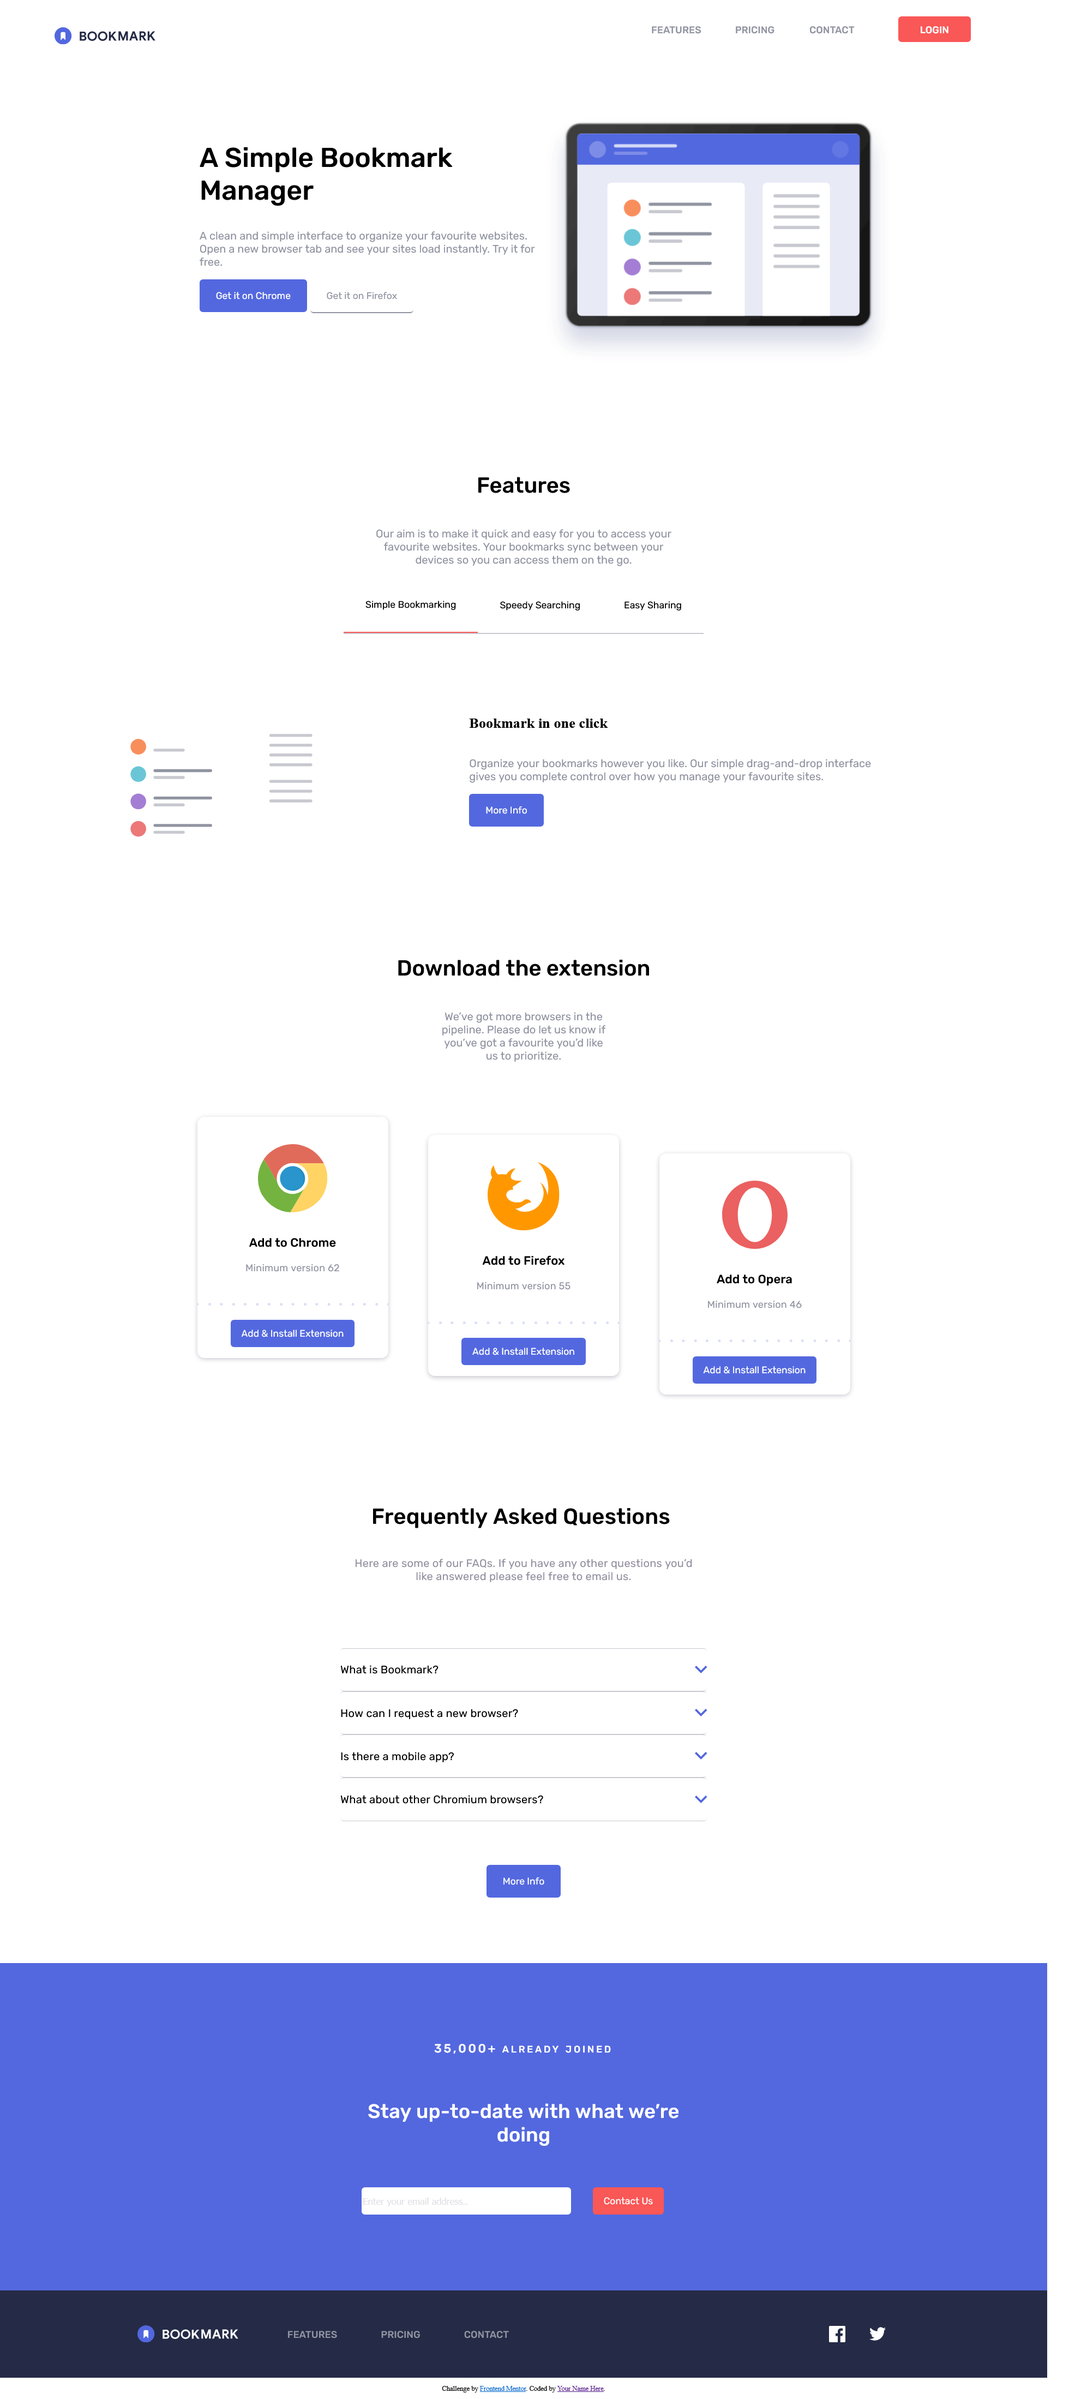
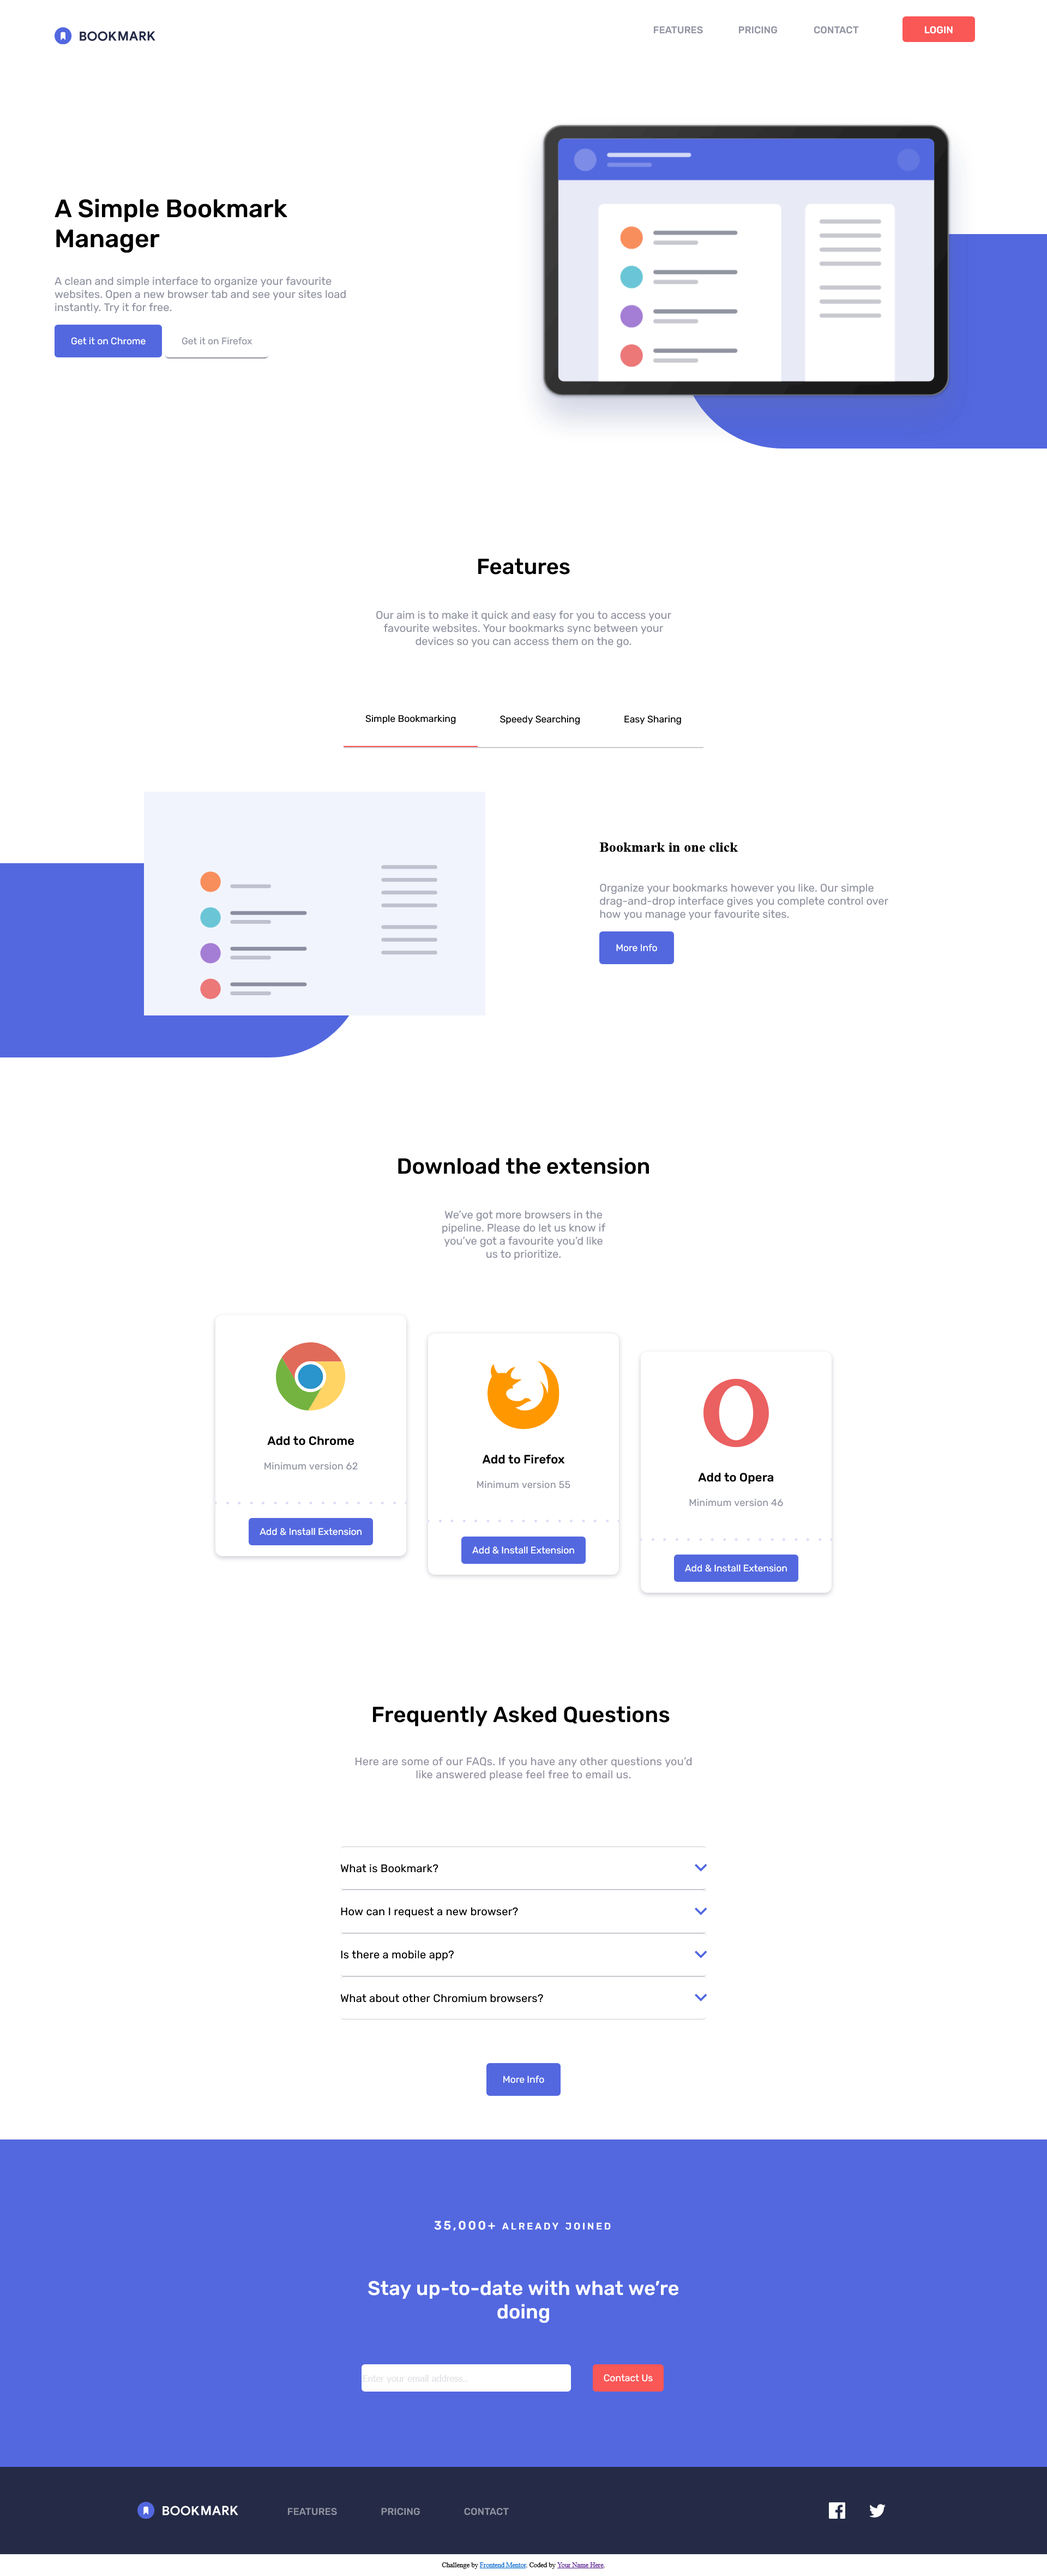
updated readme

diff --git a/README.md b/README.md
@@ -1,22 +1,23 @@
-# Frontend Mentor - Bookmark landing page
+# Frontend Mentor - Bookmark landing page solution
 
-![Design preview for the Bookmark landing page coding challenge](./design/desktop-preview.jpg)
+This is a solution to the [Bookmark landing page challenge on Frontend Mentor](https://www.frontendmentor.io/challenges/bookmark-landing-page-5d0b588a9edda32581d29158). Frontend Mentor challenges help you improve your coding skills by building realistic projects. 
 
-## Welcome! 👋
+## Table of contents
 
-Thanks for checking out this front-end coding challenge.
+- [Overview](#overview)
+  - [The challenge](#the-challenge)
+  - [Screenshot](#screenshot)
+  - [Links](#links)
+- [My process](#my-process)
+  - [Built with](#built-with)
+ 
 
-[Frontend Mentor](https://www.frontendmentor.io) challenges help you improve your coding skills by building realistic projects.
 
-**To do this challenge, you need a basic understanding of HTML, CSS and JavaScript.**
+## Overview
 
-## The challenge
+### The challenge
 
-Your challenge is to build out this landing page and get it looking as close to the design as possible.
-
-You can use any tools you like to help you complete the challenge. So if you've got something you'd like to practice, feel free to give it a go.
-
-Your users should be able to:
+Users should be able to:
 
 - View the optimal layout for the site depending on their device's screen size
 - See hover states for all interactive elements on the page
@@ -24,77 +25,28 @@ Your users should be able to:
   - The input field is empty
   - The email address is not formatted correctly
 
-For this challenge you'll need to:
+### Screenshot
 
-- Create the rounded blue background shape with code
-- Change the `fill` and `stroke` color of the SVGs at specific points (the challenge can be completed using the single `logo-bookmark.svg` file provided)
+![](./public/ss_desk.png)
+![](./public/ss_mobile.png)
 
-Want some support on the challenge? [Join our Slack community](https://www.frontendmentor.io/slack) and ask questions in the **#help** channel.
 
-## Where to find everything
 
-Your task is to build out the project to the designs inside the `/design` folder. You will find both a mobile and a desktop version of the design. 
+### Links
 
-The designs are in JPG static format. Using JPGs will mean that you'll need to use your best judgment for styles such as `font-size`, `padding` and `margin`. 
+- Solution URL: [](https://github.com/Phoenix-dare/Bookmark_landing_page/)
+- Live Site URL: [](https://phoenix-dare.github.io/Bookmark_landing_page/)
 
-If you would like the design files (we provide Sketch & Figma versions) to inspect the design in more detail, you can [subscribe as a PRO member](https://www.frontendmentor.io/pro).
+## My process
 
-You will find all the required assets in the `/images` folder. The assets are already optimized.
+### Built with
 
-There is also a `style-guide.md` file containing the information you'll need, such as color palette and fonts.
+- Semantic HTML5 markup
+- Flexbox
+- [Sass](https://sass-lang.com/) - CSS preprocessor for styling
+- Vanilla js
 
-## Building your project
 
-Feel free to use any workflow that you feel comfortable with. Below is a suggested process, but do not feel like you need to follow these steps:
 
-1. Initialize your project as a public repository on [GitHub](https://github.com/). Creating a repo will make it easier to share your code with the community if you need help. If you're not sure how to do this, [have a read-through of this Try Git resource](https://try.github.io/).
-2. Configure your repository to publish your code to a web address. This will also be useful if you need some help during a challenge as you can share the URL for your project with your repo URL. There are a number of ways to do this, and we provide some recommendations below.
-3. Look through the designs to start planning out how you'll tackle the project. This step is crucial to help you think ahead for CSS classes to create reusable styles.
-4. Before adding any styles, structure your content with HTML. Writing your HTML first can help focus your attention on creating well-structured content.
-5. Write out the base styles for your project, including general content styles, such as `font-family` and `font-size`.
-6. Start adding styles to the top of the page and work down. Only move on to the next section once you're happy you've completed the area you're working on.
 
-## Deploying your project
 
-As mentioned above, there are many ways to host your project for free. Our recommend hosts are:
-
-- [GitHub Pages](https://pages.github.com/)
-- [Vercel](https://vercel.com/)
-- [Netlify](https://www.netlify.com/)
-
-You can host your site using one of these solutions or any of our other trusted providers. [Read more about our recommended and trusted hosts](https://medium.com/frontend-mentor/frontend-mentor-trusted-hosting-providers-bf000dfebe).
-
-## Create a custom `README.md`
-
-We strongly recommend overwriting this `README.md` with a custom one. We've provided a template inside the [`README-template.md`](./README-template.md) file in this starter code.
-
-The template provides a guide for what to add. A custom `README` will help you explain your project and reflect on your learnings. Please feel free to edit our template as much as you like.
-
-Once you've added your information to the template, delete this file and rename the `README-template.md` file to `README.md`. That will make it show up as your repository's README file.
-
-## Submitting your solution
-
-Submit your solution on the platform for the rest of the community to see. Follow our ["Complete guide to submitting solutions"](https://medium.com/frontend-mentor/a-complete-guide-to-submitting-solutions-on-frontend-mentor-ac6384162248) for tips on how to do this.
-
-Remember, if you're looking for feedback on your solution, be sure to ask questions when submitting it. The more specific and detailed you are with your questions, the higher the chance you'll get valuable feedback from the community.
-
-## Sharing your solution
-
-There are multiple places you can share your solution:
-
-1. Share your solution page in the **#finished-projects** channel of the [Slack community](https://www.frontendmentor.io/slack). 
-2. Tweet [@frontendmentor](https://twitter.com/frontendmentor) and mention **@frontendmentor**, including the repo and live URLs in the tweet. We'd love to take a look at what you've built and help share it around.
-3. Share your solution on other social channels like LinkedIn.
-4. Blog about your experience building your project. Writing about your workflow, technical choices, and talking through your code is a brilliant way to reinforce what you've learned. Great platforms to write on are [dev.to](https://dev.to/), [Hashnode](https://hashnode.com/), and [CodeNewbie](https://community.codenewbie.org/).
-
-We provide templates to help you share your solution once you've submitted it on the platform. Please do edit them and include specific questions when you're looking for feedback. 
-
-The more specific you are with your questions the more likely it is that another member of the community will give you feedback.
-
-## Got feedback for us?
-
-We love receiving feedback! We're always looking to improve our challenges and our platform. So if you have anything you'd like to mention, please email hi[at]frontendmentor[dot]io.
-
-This challenge is completely free. Please share it with anyone who will find it useful for practice.
-
-**Have fun building!** 🚀
